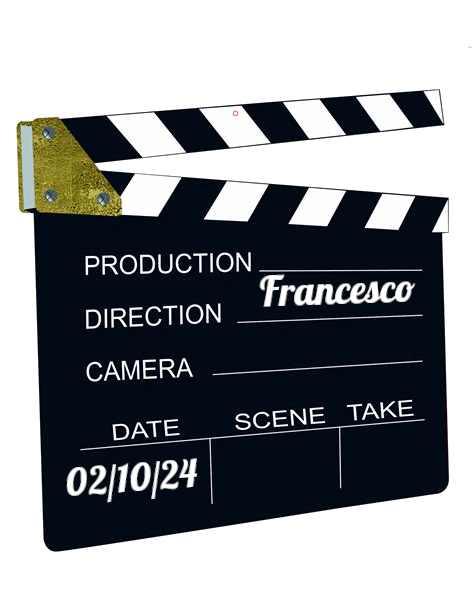
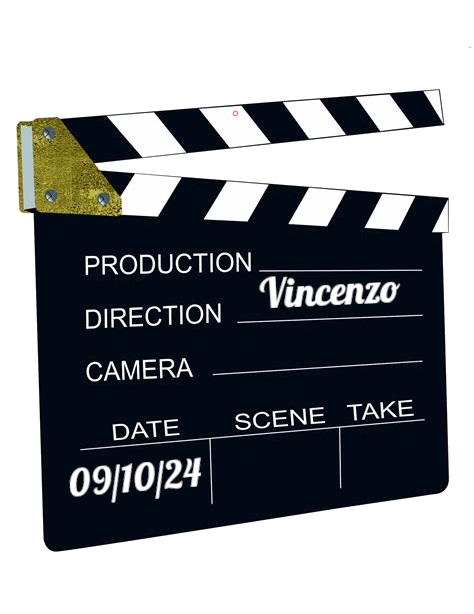
Waking Life

Changed region(s): [[0.1181, 0.7427, 0.443, 0.8355], [0.5316, 0.4332, 0.8861, 0.5261]]

diff --git a/index.html b/index.html
@@ -38,14 +38,25 @@
 
 <br /><br /><hr width="90%"><hr width="90%"><br /><br />
 
-<h1>Mercoled&igrave; 2 ottobre 2024</h1>
+<h1>Mercoled&igrave; 9 ottobre 2024</h1>
 <h2>Alle 20:30 in Via Nizza, 72</h2>
 <img src="img/ciak.png" class="locandina"/>
-<h2>Selezionatore: <i>Francesco</i></h2>
+<h2>Selezionatore: <i>Vincenzo</i></h2>
 
 <br /><br /><hr width="90%"><hr width="90%"><br /><br />
 
-<br /><br />
+
+<h1>Mercoled&igrave; 2 ottobre 2024</h1>
+
+<p class="mtitle">
+<a href="https://www.imdb.com/title/tt0243017" target="_blank">Waking Life</a>
+</p>
+<img src="https://image.tmdb.org/t/p/w500/mhqBB8Bvy8q06mmwZQO8rFSzWCs.jpg" class="locandina"/>
+
+<h2>Selezionatore: <i>Francesco</i></h2>
+
+<br /><br /><hr width="90%"><br /><br />
+
 
 <ul class="nav_bottom">
   <li class="nav"><a href="stagione2324.html">Stagione 2023 / 2024</a></li>

diff --git a/movieslist.html b/movieslist.html
@@ -29,6 +29,17 @@ Rassegnamoci, Cineforum a Programma Variabile - Elenco Film
   </thead>
   <tbody>
     <tr>
+      <td>02-Ott-2024</td>
+      <td>Waking Life</td>
+      <td>Francesco</td>
+      <td>-</td>
+      <td>2001</td>
+      <td>Richard Linklater</td>
+      <td>96</td>
+      <td>US</td>
+      <td><a href="https://www.imdb.com/title/tt0243017" target="_blank">https://www.imdb.com/title/tt0243017</a></td>
+    </tr>
+    <tr>
       <td>03-Lug-2024</td>
       <td>L'Impostore - The Imposter</td>
       <td>Vincenzo</td>
